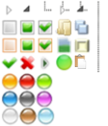
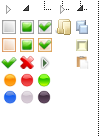
ツリーのぼやけ、ごみ、欠けた部分を修正した。

diff --git a/Dashboard/WebContent/resources/css/nodeinfomation/nodeStyles.css b/Dashboard/WebContent/resources/css/nodeinfomation/nodeStyles.css
@@ -210,29 +210,29 @@
 
 /** signal tree settings */
 .jstree-default a .signal_0 {
-	background-position: -18.3px -90.5px;;
+	background-position: -36.7px -90px;
 }
 
 .jstree-default a .signal_1 {
-	background-position: -2.2px -107.5px;
+	background-position: -20px -90px;
 }
 
 .jstree-default a .signal_2 {
-	background-position: -2.2px -90.8px;
+	background-position: -3px -90px;
 }
 
 .jstree-default a .signal_3 {
-	background-position: -36.1px -73.3px;
+	background-position: -36.8px -73.5px;
 }
 
 .jstree-default a .signal_4 {
-	background-position: -2px -73.3px;
+	background-position: -2.8px -73px;
 }
 
 .jstree-default a .signal_5 {
-	background-position: -18.5px -73.3px;
+	background-position: -20px -73px;
 }
 
 .jstree-default a .report {
-	background-position: -73px -55px;
+	background-position: -76px -56px;
 }
